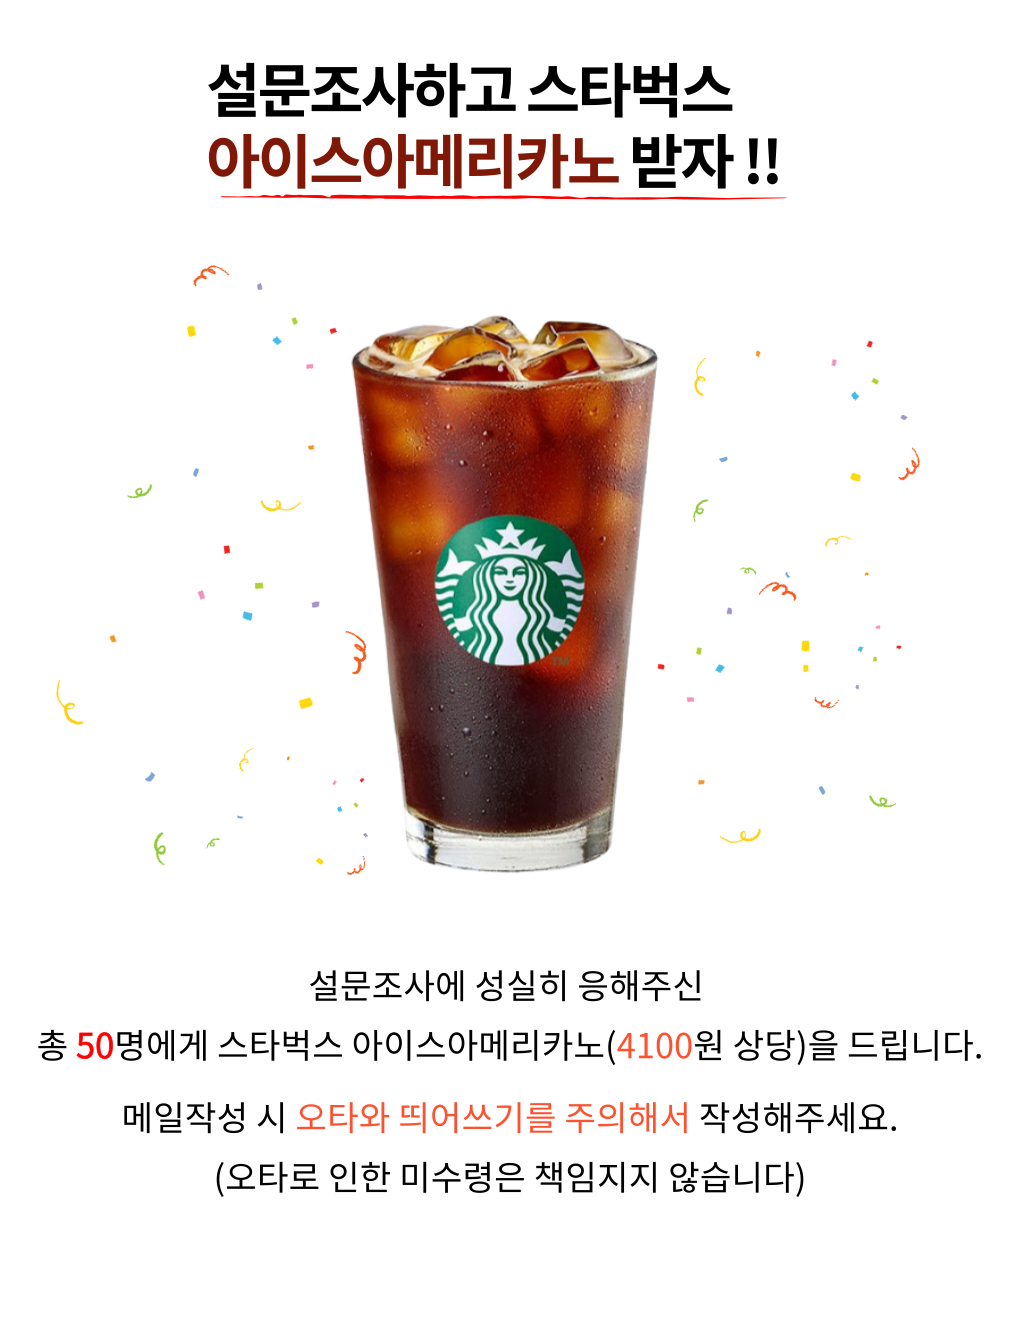
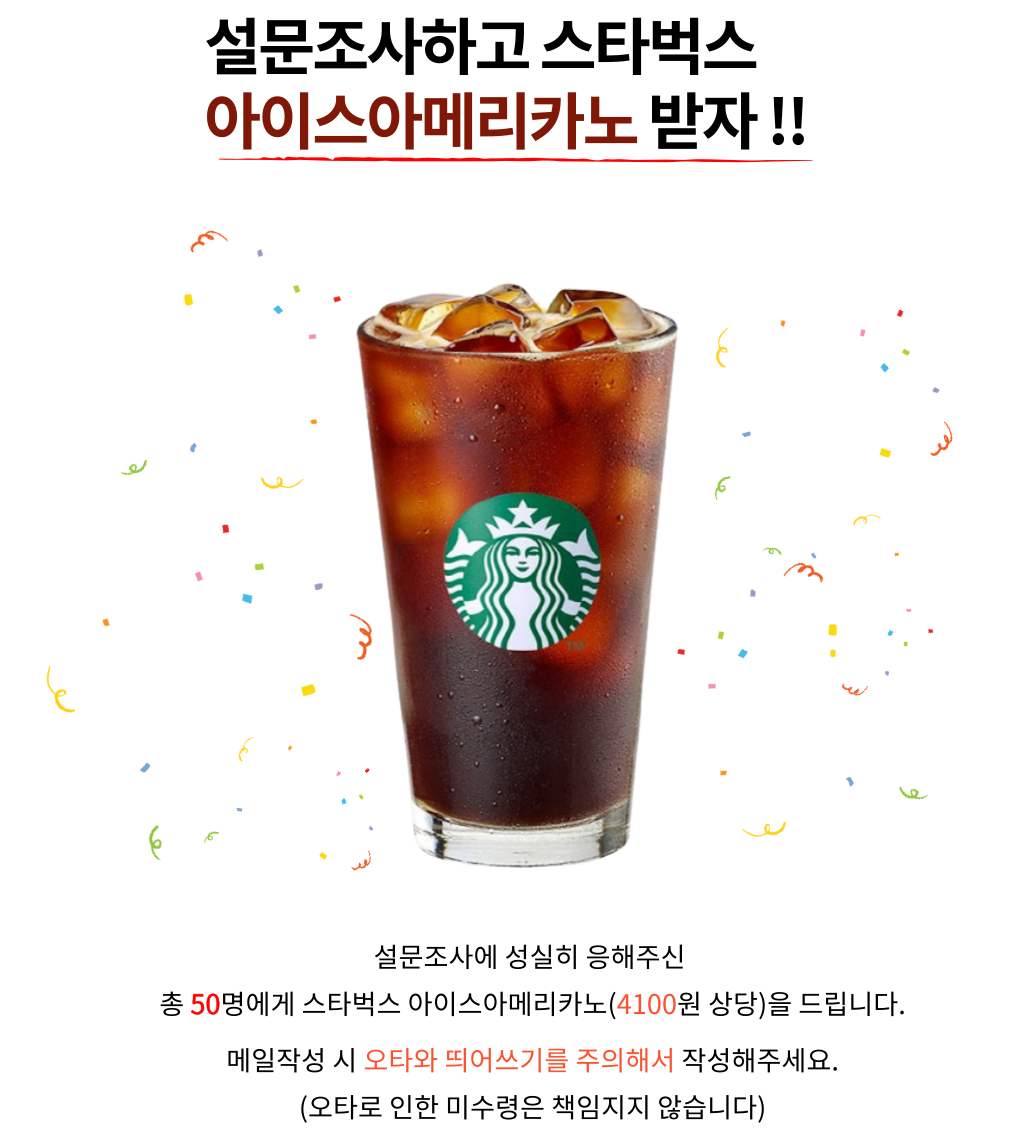
change survey page ui

diff --git a/lib/page/survey.dart b/lib/page/survey.dart
@@ -11,15 +11,15 @@ class Survey extends StatefulWidget {
 class _SurveyState extends State<Survey> {
   @override
   Widget build(BuildContext context) {
-    return Stack(
+    return Column(
       children: <Widget>[
         Container(
-          width: 411.5.w,
-          height: 533.2.h,
           child: Image.asset('assets/images/survey_image/survey_image.png'),
+          width: 411.5.w,
+          height: 453.2.h,
         ),
-        Positioned(
-          width: 240.w,
+        SizedBox(height: 20.h,),
+        Container(
           height: 40.h,
           child: ElevatedButton(
             onPressed: () {
@@ -61,8 +61,6 @@ class _SurveyState extends State<Survey> {
               ),
             ),
           ),
-          bottom: 5.h,
-          left: 85.5.w,
         ),
       ],
     );
